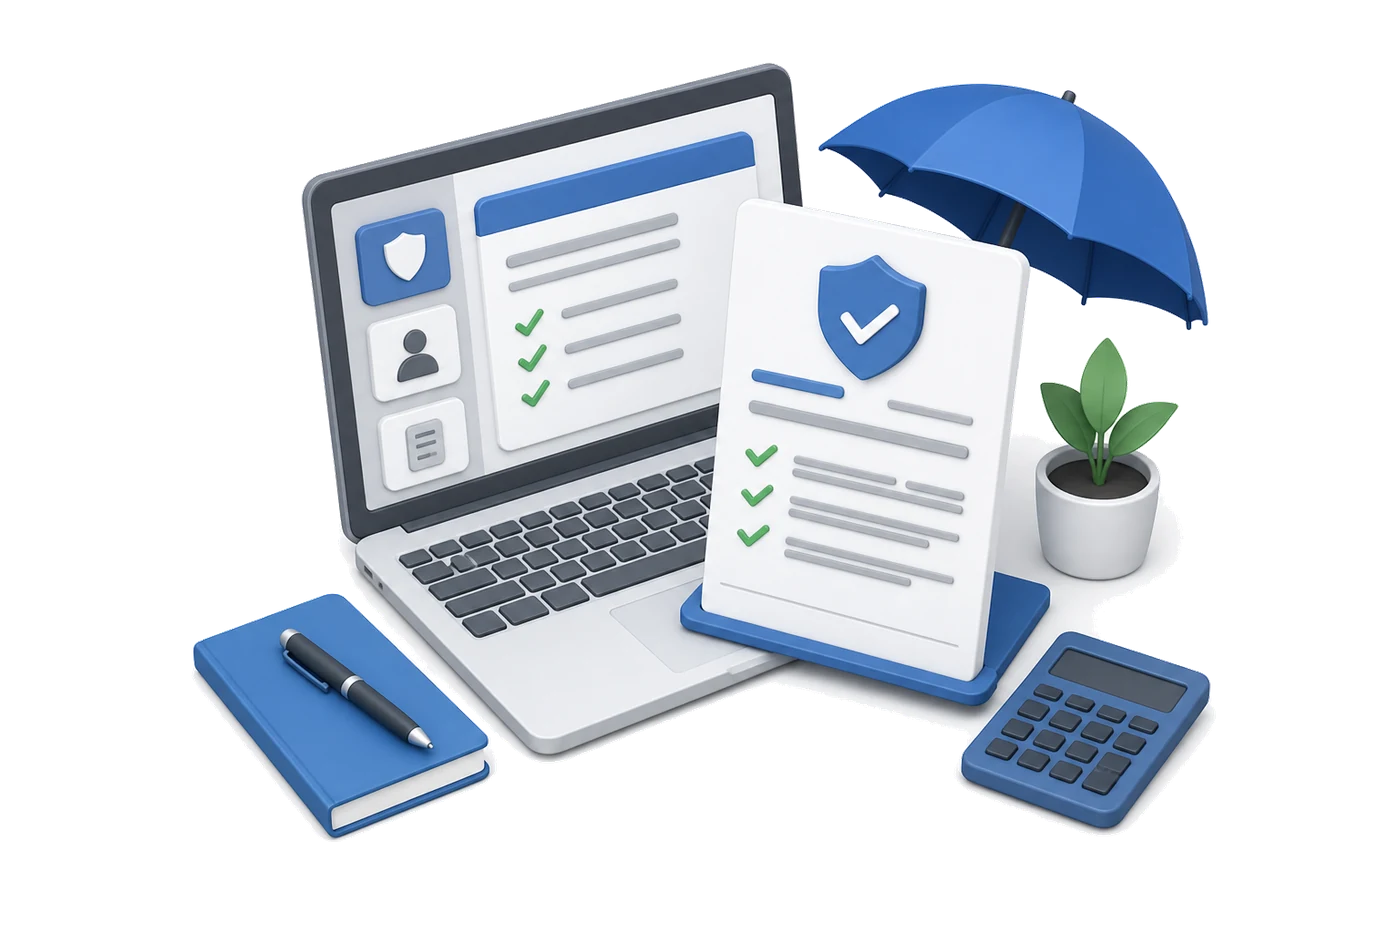
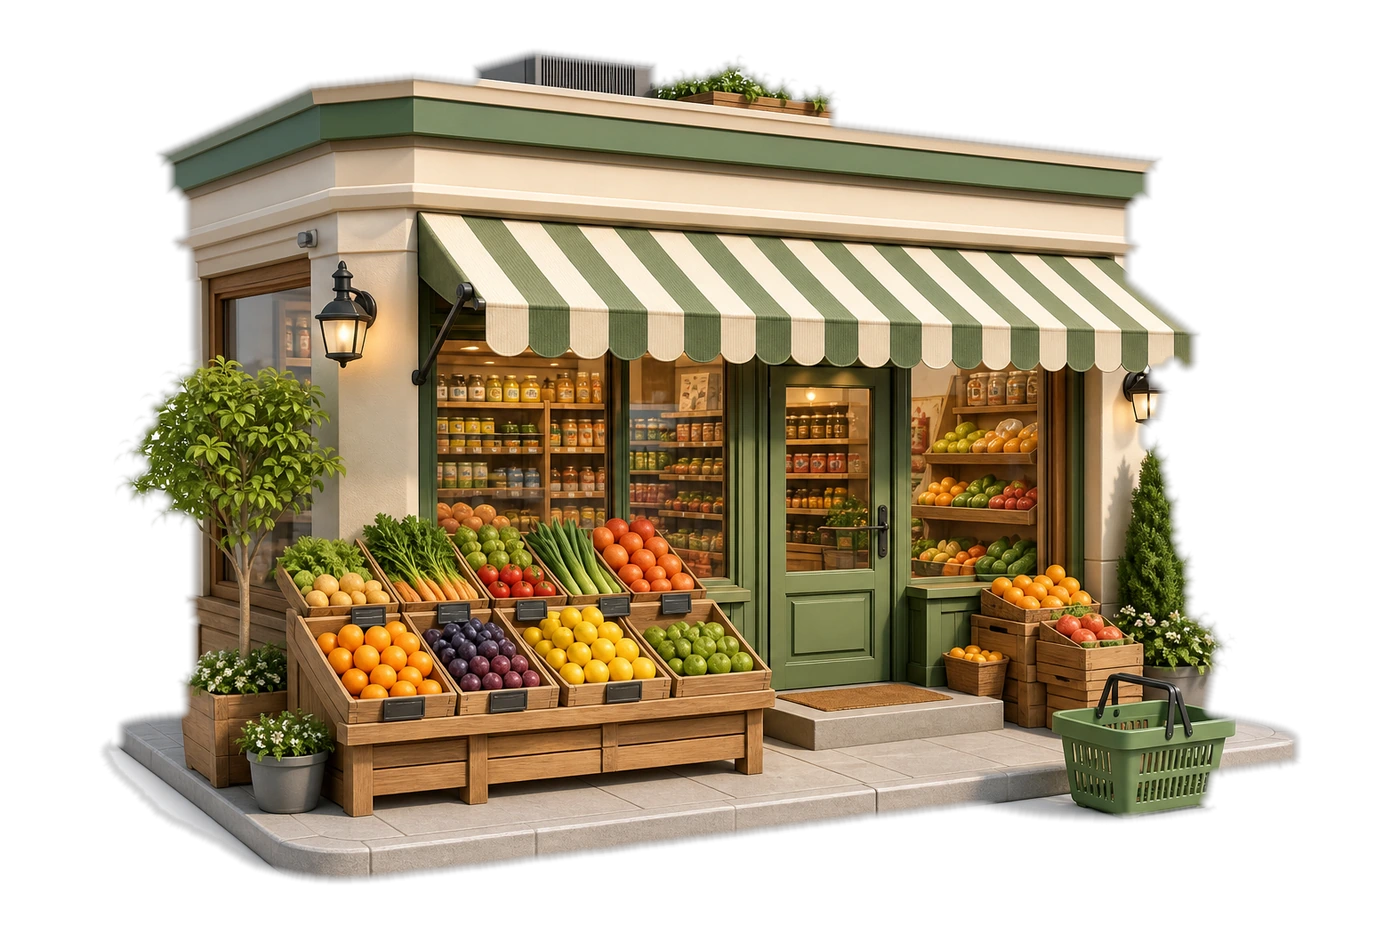
feat: animated grocery vertical hero assets
Replace small grocery, supercenter, and supermarket heroes with
subject-accurate storefront scenes and matching motion accents.

diff --git a/src/app/globals.css b/src/app/globals.css
@@ -7021,6 +7021,190 @@ body:has(.pw-docs-app) .pw-ope {
   animation-duration: 5.2s;
 }
 
+/* Grocery verticals */
+.pw-fx-produce {
+  position: absolute;
+  width: 12px;
+  height: 12px;
+  border-radius: 50%;
+  animation: pw-produce-bob 2.4s ease-in-out infinite;
+}
+
+.pw-fx-produce-a {
+  left: 34%;
+  top: 58%;
+  background: rgba(240, 120, 50, 0.75);
+}
+.pw-fx-produce-b {
+  left: 42%;
+  top: 54%;
+  background: rgba(90, 180, 70, 0.75);
+  animation-delay: 0.5s;
+}
+
+@keyframes pw-produce-bob {
+  0%,
+  100% {
+    transform: translateY(0) scale(0.9);
+    opacity: 0.45;
+  }
+  50% {
+    transform: translateY(-10px) scale(1.1);
+    opacity: 0.95;
+  }
+}
+
+.pw-fx-basket-bob {
+  position: absolute;
+  left: 68%;
+  top: 68%;
+  width: 18px;
+  height: 12px;
+  border-radius: 2px 2px 4px 4px;
+  border: 2px solid rgba(70, 120, 80, 0.65);
+  background: rgba(90, 150, 100, 0.25);
+  animation: pw-basket-bob 2.8s ease-in-out infinite;
+}
+
+@keyframes pw-basket-bob {
+  0%,
+  100% {
+    transform: translateY(0) rotate(-4deg);
+  }
+  50% {
+    transform: translateY(-8px) rotate(4deg);
+  }
+}
+
+.pw-fx-cart-roll {
+  position: absolute;
+  width: 16px;
+  height: 12px;
+  border-radius: 2px;
+  background: rgba(70, 120, 190, 0.55);
+  animation: pw-cart-roll 3s ease-in-out infinite;
+}
+
+.pw-fx-cart-roll::after {
+  content: "";
+  position: absolute;
+  left: 2px;
+  bottom: -3px;
+  width: 4px;
+  height: 4px;
+  border-radius: 50%;
+  background: rgba(40, 50, 60, 0.55);
+  box-shadow: 8px 0 0 rgba(40, 50, 60, 0.55);
+}
+
+.pw-fx-cart-roll-a {
+  left: 48%;
+  top: 62%;
+}
+.pw-fx-cart-roll-b {
+  left: 56%;
+  top: 66%;
+  animation-delay: 0.7s;
+}
+
+@keyframes pw-cart-roll {
+  0%,
+  100% {
+    transform: translateX(-8px);
+    opacity: 0.4;
+  }
+  50% {
+    transform: translateX(8px);
+    opacity: 0.9;
+  }
+}
+
+.pw-fx-entrance-glow {
+  position: absolute;
+  left: 44%;
+  top: 40%;
+  width: 28px;
+  height: 18px;
+  border-radius: 4px;
+  background: rgba(255, 220, 140, 0.4);
+  box-shadow: 0 0 18px rgba(255, 200, 100, 0.45);
+  animation: pw-entrance-glow 2.8s ease-in-out infinite;
+}
+
+@keyframes pw-entrance-glow {
+  0%,
+  100% {
+    opacity: 0.3;
+    transform: scale(0.95);
+  }
+  50% {
+    opacity: 0.95;
+    transform: scale(1.12);
+  }
+}
+
+.pw-fx-aisle-glow {
+  position: absolute;
+  width: 10px;
+  height: 22px;
+  border-radius: 2px;
+  background: rgba(255, 210, 120, 0.45);
+  box-shadow: 0 0 12px rgba(255, 190, 90, 0.4);
+  animation: pw-aisle-glow 2.5s ease-in-out infinite;
+}
+
+.pw-fx-aisle-glow-a {
+  left: 42%;
+  top: 42%;
+}
+.pw-fx-aisle-glow-b {
+  left: 52%;
+  top: 46%;
+  animation-delay: 0.6s;
+}
+
+@keyframes pw-aisle-glow {
+  0%,
+  100% {
+    opacity: 0.25;
+    transform: scaleY(0.9);
+  }
+  50% {
+    opacity: 0.95;
+    transform: scaleY(1.15);
+  }
+}
+
+.pw-fx-cart-line {
+  position: absolute;
+  left: 64%;
+  top: 64%;
+  width: 22px;
+  height: 8px;
+  border-radius: 2px;
+  background: rgba(90, 130, 100, 0.45);
+  box-shadow: 0 6px 0 rgba(90, 130, 100, 0.3);
+  animation: pw-cart-line 2.6s ease-in-out infinite;
+}
+
+@keyframes pw-cart-line {
+  0%,
+  100% {
+    transform: translateX(-4px);
+    opacity: 0.4;
+  }
+  50% {
+    transform: translateX(4px);
+    opacity: 0.85;
+  }
+}
+
+.pw-photo-stage-small-grocery .pw-photo-stage-bob,
+.pw-photo-stage-supercenter .pw-photo-stage-bob,
+.pw-photo-stage-supermarket .pw-photo-stage-bob {
+  animation-duration: 5.2s;
+}
+
 @media (prefers-reduced-motion: reduce) {
   .pw-photo-stage-bob,
   .pw-photo-stage-fx * {

diff --git a/src/components/IndustryPhotoStage.tsx b/src/components/IndustryPhotoStage.tsx
@@ -25,7 +25,10 @@ type MotionKind =
   | "residential-property"
   | "short-term-rental"
   | "fine-dining"
-  | "restaurant-group";
+  | "restaurant-group"
+  | "small-grocery"
+  | "supercenter"
+  | "supermarket";
 
 const MOTION_BY_SLUG: Record<string, MotionKind> = {
   ecommerce: "computer",
@@ -51,6 +54,9 @@ const MOTION_BY_SLUG: Record<string, MotionKind> = {
   "short-term-rental-management": "short-term-rental",
   "fine-dining-restaurant": "fine-dining",
   "restaurant-group": "restaurant-group",
+  "small-grocery-store": "small-grocery",
+  supercenter: "supercenter",
+  supermarket: "supermarket",
 };
 
 type IndustryPhotoStageProps = {
@@ -277,6 +283,27 @@ export function IndustryPhotoStage({
                 <span className="pw-fx-storefront-glow pw-fx-storefront-glow-b" />
                 <span className="pw-fx-storefront-glow pw-fx-storefront-glow-c" />
                 <span className="pw-fx-umbrella-sway" />
+              </>
+            )}
+            {motion === "small-grocery" && (
+              <>
+                <span className="pw-fx-produce pw-fx-produce-a" />
+                <span className="pw-fx-produce pw-fx-produce-b" />
+                <span className="pw-fx-basket-bob" />
+              </>
+            )}
+            {motion === "supercenter" && (
+              <>
+                <span className="pw-fx-cart-roll pw-fx-cart-roll-a" />
+                <span className="pw-fx-cart-roll pw-fx-cart-roll-b" />
+                <span className="pw-fx-entrance-glow" />
+              </>
+            )}
+            {motion === "supermarket" && (
+              <>
+                <span className="pw-fx-aisle-glow pw-fx-aisle-glow-a" />
+                <span className="pw-fx-aisle-glow pw-fx-aisle-glow-b" />
+                <span className="pw-fx-cart-line" />
               </>
             )}
             {motion === "float" && (
